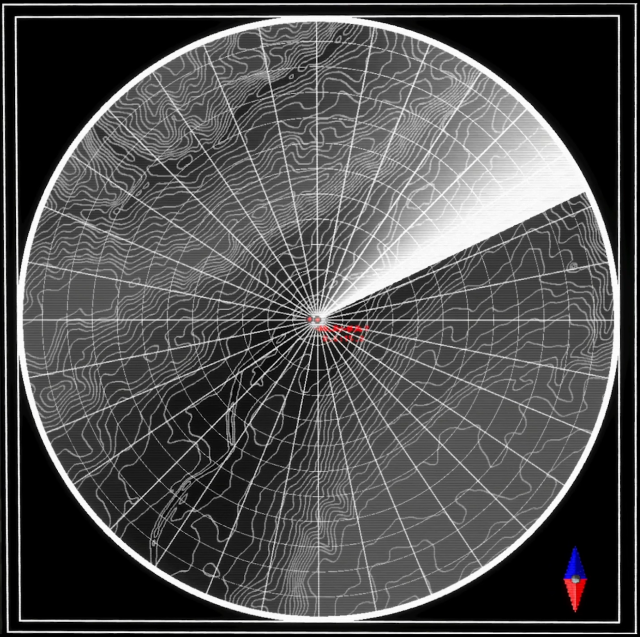
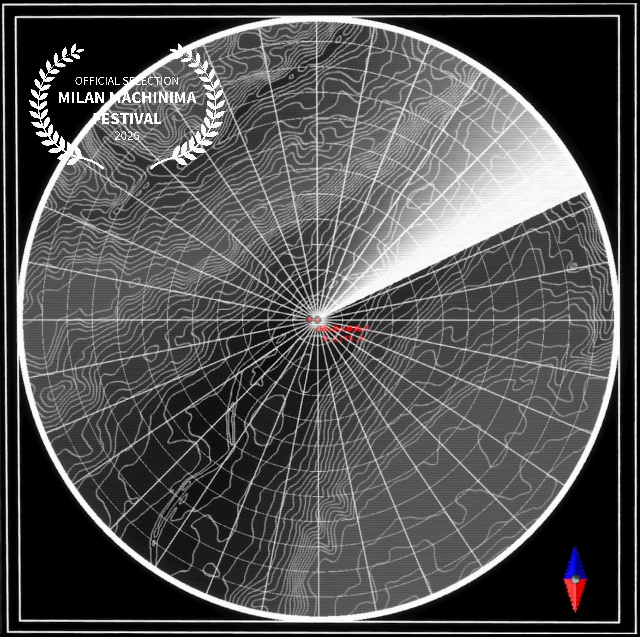
Update MMF

Changed region(s): [[0.0312, 0.0597, 0.3438, 0.2684]]

diff --git a/works.html b/works.html
@@ -83,56 +83,7 @@
     
 
     
-    <div class="worksCont">        
-        
-        <div class="imageCont">
-            <img src="Mediapool/Island 2.jpg" alt="Thumbnail" class="image">
-            <a href="ISLAND.html">
-                <div class="infoHover">
-                  <br>
-                  <p id="infoTitle">Island of Lost and Found</p>
-                  <br>
-                  <hr>
-                  <br>
-                  <br>
-                  <p id="infoInfo">Interactive</p>
-                  <p id="infoYear">_2024</p>
-                </div>
-            </a>
-        </div>
-
-        <div class="imageCont">
-            <img src="Mediapool/OM_1.jpg" alt="Thumbnail" class="image">
-            <a href="OM.html">
-                <div class="infoHover">
-                    <br>
-                    <p id="infoTitle">Oculus_Machina</p>
-                    <br>
-                    <hr>
-                    <br>
-                    <br>
-                    <br>
-                    <p id="infoInfo">Algorithm</p>
-                    <p id="infoYear">_2024</p>
-                </div>
-            </a>
-        </div>
-        
-        <div class="imageCont">
-            <img src="Mediapool/Can Anim Thumb.jpg" alt="Thumbnail" class="image">
-            <a href="CA.html">
-                <div class="infoHover">
-                    <br>
-                    <p id="infoTitle">Can_Animation V3.mov</p>
-                    <br>
-                    <hr>
-                    
-                    <br>
-                    <p id="infoInfo">Digital-3D</p>
-                    <p id="infoYear">_2023</p>
-                </div>
-            </a>
-        </div>
+    <div class="worksCont">      
 
 
         <div class="imageCont">
@@ -155,6 +106,58 @@
 
 
         <div class="imageCont">
+            <img src="Mediapool/OM_1.jpg" alt="Thumbnail" class="image">
+            <a href="OM.html">
+                <div class="infoHover">
+                    <br>
+                    <p id="infoTitle">Oculus_Machina</p>
+                    <br>
+                    <hr>
+                    <br>
+                    <br>
+                    <br>
+                    <p id="infoInfo">Interactive Installation</p>
+                    <p id="infoYear">_2025</p>
+                </div>
+            </a>
+        </div>
+
+
+        <div class="imageCont">
+            <img src="Mediapool/Island 2.jpg" alt="Thumbnail" class="image">
+            <a href="ISLAND.html">
+                <div class="infoHover">
+                  <br>
+                  <p id="infoTitle">Island of Lost and Found</p>
+                  <br>
+                  <hr>
+                  <br>
+                  <br>
+                  <p id="infoInfo">Interactive Experience</p>
+                  <p id="infoYear">_2024</p>
+                </div>
+            </a>
+        </div>
+        
+
+        <div class="imageCont">
+            <img src="Mediapool/Can Anim Thumb.jpg" alt="Thumbnail" class="image">
+            <a href="CA.html">
+                <div class="infoHover">
+                    <br>
+                    <p id="infoTitle">Can_Animation V3.mov</p>
+                    <br>
+                    <hr>
+                    
+                    <br>
+                    <p id="infoInfo">Digital-3D</p>
+                    <p id="infoYear">_2023</p>
+                </div>
+            </a>
+        </div>
+
+
+        <div class="imageCont">
             <img src="Mediapool/Frag (7).jpg" alt="Thumbnail" class="image">
             <a href="FRAG.html">
                 <div class="infoHover">
@@ -168,9 +171,9 @@
                     <p id="infoInfo">Video</p>
                     <p id="infoYear">_2022</p>
                 </div>
-            </a>
-            
+            </a>         
         </div>
+
 
         <div class="imageCont">
             <img src="Mediapool/DM.jpg" alt="Thumbnail" class="image">
@@ -186,8 +189,7 @@
                     <p id="infoInfo">Video</p>
                     <p id="infoYear">_2019</p>
                 </div>
-            </a>
-            
+            </a>       
         </div>
 
 

diff --git a/BIC.html b/BIC.html
@@ -90,9 +90,24 @@
 
 
 
-  <div class="descBlock">
+<div class="descBlock">
+    <div class="descDiv">
+        <span id="desc" style="font-size: 1.2rem; background-color: magenta; color: black;">
+            Like a Bird in a Cage will be presented at the <a href="https://milanmachinimafestival.org/" style="color: white;">Milan Machinima Festival 2025</a> from March 17th to March 23rd, 2025 in Los Angeles, California and online 
+        </span>
+
+    </div>
+
+</div>
+
+
+
+<div class="descBlock">
     <div class="workvideo">
-        <iframe class="YT" width="771" height="410" src="https://www.youtube.com/embed/yQKgL22OAHI?si=yOpn5GS3C1A7MjPB" title="YouTube video player" frameborder="0" allow="accelerometer; autoplay; clipboard-write; encrypted-media; gyroscope; picture-in-picture; web-share" allowfullscreen></iframe>
+        <!-- <iframe class="YT" width="771" height="410" src="https://www.youtube.com/embed/yQKgL22OAHI?si=yOpn5GS3C1A7MjPB" title="YouTube video player" frameborder="0" allow="accelerometer; autoplay; clipboard-write; encrypted-media; gyroscope; picture-in-picture; web-share" allowfullscreen></iframe> -->
+         <a href="https://milanmachinimafestival.org/">
+            <img class="YT" src="Mediapool/Full_images/MMF.jpg" alt="MMF 2025 Logo">
+         </a>
       </div>
     <div class="quoteDiv">
         <span id="quote">

diff --git a/OM.html b/OM.html
@@ -181,7 +181,7 @@
 
   <div class="descBlock">
     <div class="workvideo">
-        <iframe class="YT" src="https://www.youtube.com/embed/ibBikZqUKfo" title="YouTube video player" frameborder="0" allow="accelerometer; autoplay; clipboard-write; encrypted-media; gyroscope; picture-in-picture; web-share" allowfullscreen>
+        <iframe class="YT" width="771" height="410" src="https://www.youtube.com/embed/ibBikZqUKfo" title="YouTube video player" frameborder="0" allow="accelerometer; autoplay; clipboard-write; encrypted-media; gyroscope; picture-in-picture; web-share" allowfullscreen>
             
         </iframe>
       </div>

diff --git a/styles_selected.css b/styles_selected.css
@@ -317,7 +317,7 @@
   margin-right: 14vw;
 
   width: 771px; 
-  height: 410px;
+  /* height: 410px; */
 }
 
 
